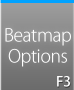
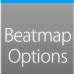
Fix mod, random, and options button offset in old skin.json layout

Changed region(s): [[0.0541, 0.2973, 0.973, 0.973], [0.0, 0.027, 1.0, 0.0541]]

diff --git a/src/ru/nsu/ccfit/zuev/osu/menu/SongMenu.java b/src/ru/nsu/ccfit/zuev/osu/menu/SongMenu.java
@@ -607,21 +607,14 @@ public class SongMenu implements IUpdateHandler, MenuItemListener,
             backButton.setPosition(0, Config.getRES_HEIGHT() - backButton.getHeightScaled());
 
             if (modSelection != null) {
-                modSelection.setPosition(backButton.getX() + backButton.getWidthScaled(),
-                                         Config.getRES_HEIGHT() - 90);
-                optionSelection.setPosition(
-                        modSelection.getX() + modSelection.getWidthScaled(),
-                        Config.getRES_HEIGHT() - 90);
+                modSelection.setPosition(backButton.getX() + backButton.getWidthScaled(), Config.getRES_HEIGHT() - modSelection.getHeightScaled());
+                optionSelection.setPosition(modSelection.getX() + modSelection.getWidthScaled(), Config.getRES_HEIGHT() - optionSelection.getHeightScaled());
             } else {
-                optionSelection.setPosition(backButton.getX() + backButton.getWidthScaled(),
-                                         Config.getRES_HEIGHT() - 90);
+                optionSelection.setPosition(backButton.getX() + backButton.getWidthScaled(), Config.getRES_HEIGHT() - optionSelection.getHeightScaled());
             }
 
-            randomMap.setPosition(
-                    optionSelection.getX() + optionSelection.getWidthScaled(),
-                    Config.getRES_HEIGHT() - 90);
-
-            difficultySwitcher.setPosition(randomMap.getX() + randomMap.getWidthScaled() - 18, Config.getRES_HEIGHT() - difficultySwitcher.getHeightScaled());
+            randomMap.setPosition(optionSelection.getX() + optionSelection.getWidthScaled(), Config.getRES_HEIGHT() - randomMap.getHeightScaled());
+            difficultySwitcher.setPosition(randomMap.getX() + randomMap.getWidthScaled(), Config.getRES_HEIGHT() - difficultySwitcher.getHeightScaled());
         }
 
         frontLayer.attachChild(backButton);
